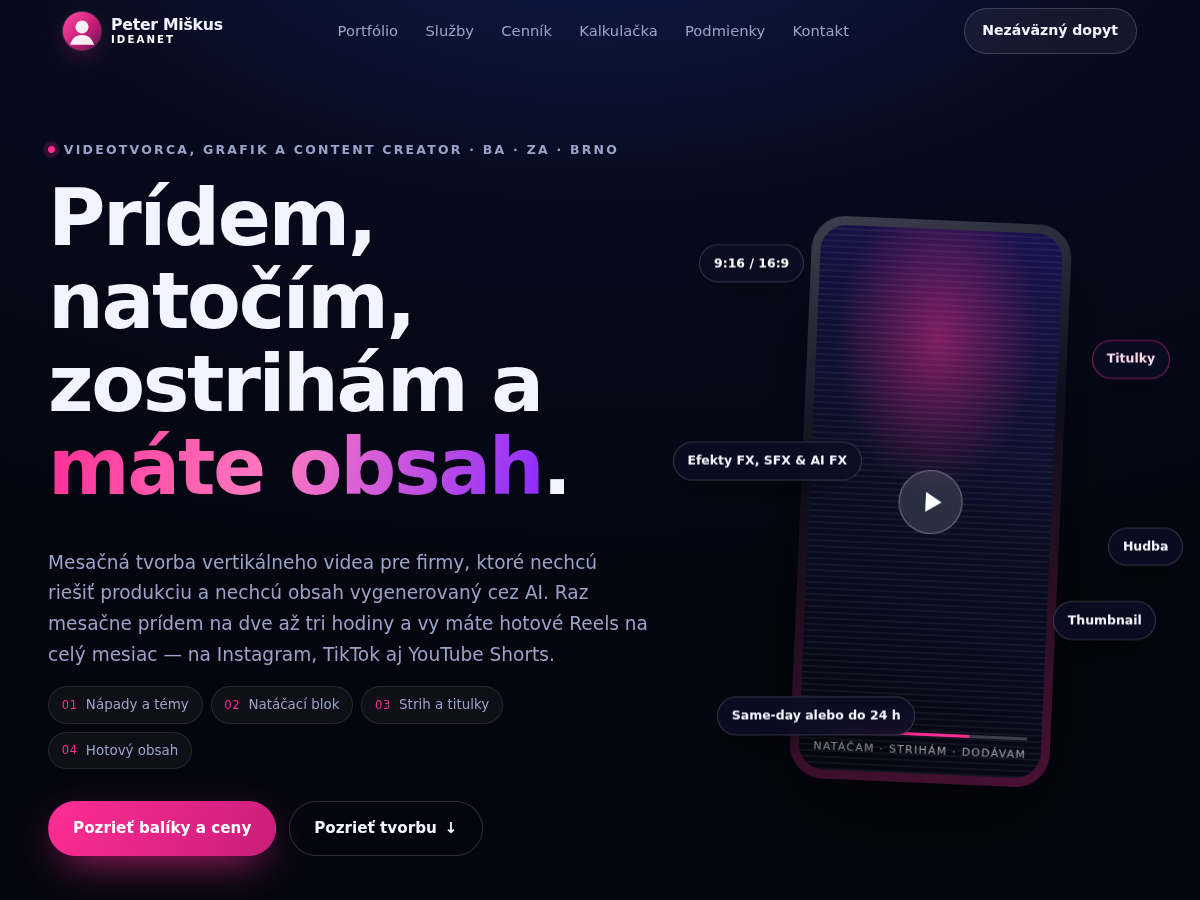
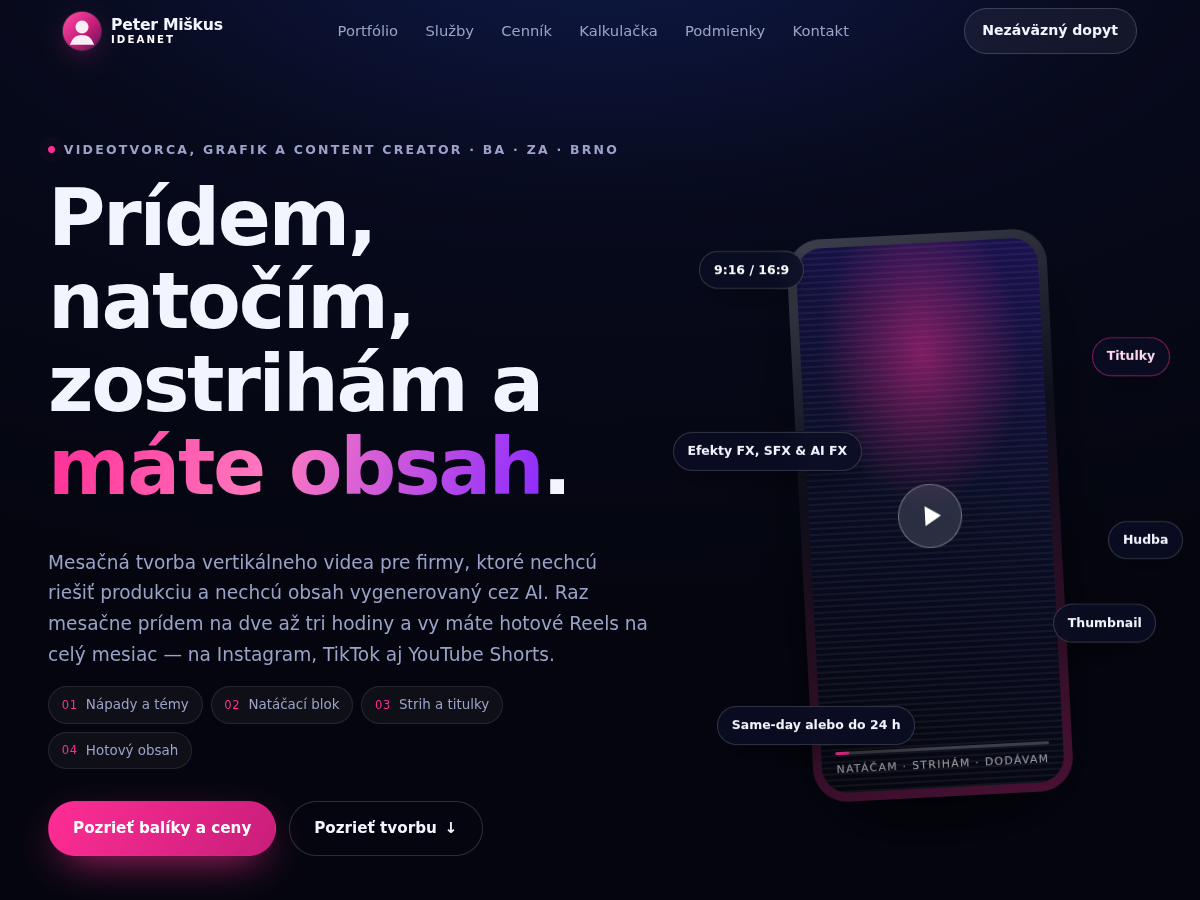
Video v úvodnej obrazovke, čas z videa, ikona na rozbalenie
Úvodná obrazovka: do telefónu sa dá v Prispôsobiť nahrať vertikálna
slučka (MP4, voliteľne WebM, prvý obrázok). Prehráva sa sama a stlmene,
je to ozdoba. Komu má systém vypnuté animácie, tomu sa nespustí a uvidí
prvý obrázok. Bez nahratého videa zostane pôvodná animovaná obrazovka,
takže čerstvá inštalácia vyzerá rovnako ako doteraz.

Dĺžka na kartách portfólia sa už nevypisuje ručne — prehliadač ju
prečíta z videa, len čo načíta jeho popis (preload="metadata"). Ručne
vyplnená hodnota platí dovtedy, prípadne keď sa video nenačíta; keď nie
je ani jedna, bublina s časom sa nezobrazí. load() pri prvom prehratí
sa volá už len vtedy, keď ešte nie je zdroj — inak by zahodil práve
načítanú dĺžku.

Rozbalenie videa je samá ikona pri pravom okraji karty, bez textu vedľa
nej; popis nesie aria-label a title. Poznámka nad portfóliom už
neodkazuje na tlačidlo menom, ktoré na ňom nie je vidieť.

Odstup medzi sekciami je menší: --sec-y z clamp(4.5rem, 10vw, 9rem)
na clamp(3.4rem, 7.4vw, 6.8rem).

Overené: 336 kontrol vo WordPresse, 261 na statickej verzii, bez pádu.

Claude-Session: https://claude.ai/code/session_01Fz61n7YU6jQe9FiW2EftMQ

diff --git a/wp-theme/ideanet/assets/js/app.js b/wp-theme/ideanet/assets/js/app.js
@@ -51,7 +51,7 @@
     <article class="reel" id="${r.id}" data-i="${i}" role="option" aria-selected="false" aria-label="${esc(r.title)}">
       <div class="reel__media">
         ${r.poster ? `<img src="${esc(r.poster)}" alt="${esc(r.title)}" loading="lazy" decoding="async" width="1080" height="1920">` : ''}
-        <video preload="none" playsinline muted loop ${r.poster ? `poster="${esc(r.poster)}"` : ''} aria-label="${esc(r.title)}">
+        <video preload="${(r.video || r.webm) ? 'metadata' : 'none'}" playsinline muted loop ${r.poster ? `poster="${esc(r.poster)}"` : ''} aria-label="${esc(r.title)}">
           ${r.video ? `<source src="${esc(r.video)}" type="video/mp4">` : ''}
           ${r.webm  ? `<source src="${esc(r.webm)}" type="video/webm">` : ''}
         </video>
@@ -72,7 +72,7 @@
         <span class="tags">${(r.tags || []).map(x => `<span>${esc(x)}</span>`).join('')}</span>
         <div class="reel__tools">
           <button class="tool" data-act="sound" aria-label="${esc(T.soundOn)}">${icon.mute}<span>${esc(T.sound)}</span></button>
-          <button class="tool" data-act="expand" aria-label="${esc(T.expand + ' ' + r.title)}">${icon.exp}<span>${esc(T.expand)}</span></button>
+          <button class="tool tool--expand" data-act="expand" title="${esc(T.expand)}" aria-label="${esc(T.expand + ' ' + r.title)}">${icon.exp}</button>
         </div>
       </div>
       <span class="reel__line"></span>
@@ -81,8 +81,21 @@
     cards  = $$('.reel', rail);
     videos = $$('.reel video', rail);
 
+    /* Dĺžka na karte sa berie z videa, nie z ručne vyplneného poľa —
+       prehliadač ju pozná hneď, ako načíta popis súboru. Vyplnená
+       hodnota slúži len dovtedy, prípadne keď video chýba. */
+    const cas = (sek) => {
+      const m = Math.floor(sek / 60), z = Math.round(sek % 60);
+      return z === 60 ? (m + 1) + ':00' : m + ':' + String(z).padStart(2, '0');
+    };
+
     /* plagát ako záloha, keď video chýba alebo sa nedá prehrať */
     videos.forEach((v, i) => {
+      v.addEventListener('loadedmetadata', () => {
+        if (!isFinite(v.duration) || v.duration <= 0) return;
+        const el = cards[i].querySelector('.reel__dur');
+        if (el) el.textContent = cas(v.duration);
+      });
       v.addEventListener('error', () => {
         if (v.networkState === HTMLMediaElement.NETWORK_NO_SOURCE) cards[i].classList.add('no-src');
       }, true);
@@ -113,7 +126,12 @@
 
   function play(i) {
     const v = videos[i], card = cards[i];
-    if (v.preload === 'none') { v.preload = 'auto'; v.load(); }
+    if (v.preload !== 'auto') {
+      /* load() by zahodil už načítaný popis aj dĺžku — stačí povoliť
+         sťahovanie, zvyšok dotiahne samotné play() */
+      v.preload = 'auto';
+      if (!v.currentSrc) v.load();
+    }
     stopAll(v);
     v.play().then(() => card.classList.add('is-playing'))
             .catch(() => { if (!v.currentSrc) card.classList.add('no-src'); });
@@ -456,6 +474,27 @@
     if (e.key === 'ArrowRight') step(1);
     if (e.key === 'ArrowLeft') step(-1);
   });
+
+  /* ── video v telefóne na úvodnej obrazovke ──
+     Je to ozdoba, takže sa prehráva samo a bez zvuku. Kto má vypnuté
+     animácie, uvidí prvý obrázok — hýbuce sa video by bolo presne to,
+     čomu sa tým nastavením chce vyhnúť. */
+  const heroVideo = $('#heroVideo');
+  if (heroVideo) {
+    if (reduce) {
+      heroVideo.autoplay = false;
+      heroVideo.removeAttribute('autoplay');
+      heroVideo.pause();
+    } else {
+      /* Safari autoplay niekedy odmietne, keď je karta na pozadí —
+         skúsime to znova, až keď je video na obrazovke. */
+      const spusti = () => { const p = heroVideo.play(); if (p) p.catch(() => {}); };
+      spusti();
+      new IntersectionObserver((ents) => {
+        ents.forEach(en => { if (en.isIntersecting && heroVideo.paused) spusti(); });
+      }, { threshold: .2 }).observe(heroVideo);
+    }
+  }
 
   /* ───────────────────────────────────────────
      6) NAVIGÁCIA + MENU

diff --git a/wp-theme/ideanet/style.css b/wp-theme/ideanet/style.css
@@ -53,7 +53,7 @@ Tags: one-column, custom-menu, custom-logo, custom-colors, editor-style, portfol
   --shell:min(1240px, 92vw);
   --card-w:clamp(220px, 26vw, 308px);
   --gutter:clamp(1rem, 4vw, 2.5rem);
-  --sec-y:clamp(4.5rem, 10vw, 9rem);
+  --sec-y:clamp(3.4rem, 7.4vw, 6.8rem);
 
   /* typografia */
   --font:'Inter', ui-sans-serif, system-ui, -apple-system, 'Segoe UI', Roboto, sans-serif;
@@ -459,6 +459,9 @@ section[id]{scroll-margin-top:clamp(72px,9vh,96px)}
   padding:.32rem .6rem;border-radius:999px;color:#fff;
 }
 .reel__dur{font-size:.72rem;font-weight:600;color:rgba(255,255,255,.72);background:rgba(4,6,18,.6);padding:.32rem .55rem;border-radius:999px;backdrop-filter:blur(8px)}
+/* Dĺžku dopĺňa skript z videa. Kým ju nepozná, nech tam nevisí prázdna
+   bublina. */
+.reel__dur:empty{display:none}
 
 .reel__play{
   position:absolute;inset:0;margin:auto;width:66px;height:66px;border-radius:50%;
@@ -485,6 +488,10 @@ section[id]{scroll-margin-top:clamp(72px,9vh,96px)}
 }
 .tool:hover{background:var(--magenta);border-color:transparent;color:#fff}
 .tool svg{width:15px;height:15px;flex:none}
+/* Rozbalenie je samá ikona a drží sa pravého okraja — popis nesie
+   aria-label, nie text vedľa nej. */
+.tool--expand{flex:none;margin-left:auto;width:36px;padding:.5rem 0}
+.tool--expand svg{width:16px;height:16px}
 .reel__line{position:absolute;left:0;bottom:0;height:3px;width:0;background:var(--magenta);z-index:3;transition:width .12s linear}
 
 .reel__hint{
@@ -1248,3 +1255,20 @@ body.is-locked{overflow:hidden}
   color:var(--text);padding:.7rem .85rem;font:inherit;margin-bottom:.9rem}
 .comment-respond .comment-form-cookies-consent{display:flex;gap:.5rem;align-items:flex-start}
 .comment-respond .comment-form-cookies-consent label{margin:0}
+
+/* ── video v telefóne na úvodnej obrazovke ──
+   Nahrádza animovanú obrazovku, keď je v Prispôsobiť nahraté video.
+   Prekrytie s odleskom a riadkami necháme, len slabšie — inak by
+   z videa nebolo nič vidieť. */
+.phone__video{
+  position:absolute;inset:0;width:100%;height:100%;
+  object-fit:cover;border-radius:inherit;z-index:0;
+}
+.phone--video .phone__screen::before{opacity:.4;z-index:1;pointer-events:none}
+.phone--video .phone__caption{text-shadow:0 1px 10px rgba(0,0,0,.8)}
+
+/* Kto má vypnuté animácie, dostane prvý obrázok videa. Zastavuje ho
+   skript, CSS na prehrávanie nedosiahne. */
+@media (prefers-reduced-motion:reduce){
+  .phone--video{animation:none}
+}

diff --git a/styles.css b/styles.css
@@ -30,7 +30,7 @@
   --shell:min(1240px, 92vw);
   --card-w:clamp(220px, 26vw, 308px);
   --gutter:clamp(1rem, 4vw, 2.5rem);
-  --sec-y:clamp(4.5rem, 10vw, 9rem);
+  --sec-y:clamp(3.4rem, 7.4vw, 6.8rem);
 
   /* typografia */
   --font:'Inter', ui-sans-serif, system-ui, -apple-system, 'Segoe UI', Roboto, sans-serif;
@@ -436,6 +436,9 @@ section[id]{scroll-margin-top:clamp(72px,9vh,96px)}
   padding:.32rem .6rem;border-radius:999px;color:#fff;
 }
 .reel__dur{font-size:.72rem;font-weight:600;color:rgba(255,255,255,.72);background:rgba(4,6,18,.6);padding:.32rem .55rem;border-radius:999px;backdrop-filter:blur(8px)}
+/* Dĺžku dopĺňa skript z videa. Kým ju nepozná, nech tam nevisí prázdna
+   bublina. */
+.reel__dur:empty{display:none}
 
 .reel__play{
   position:absolute;inset:0;margin:auto;width:66px;height:66px;border-radius:50%;
@@ -462,6 +465,10 @@ section[id]{scroll-margin-top:clamp(72px,9vh,96px)}
 }
 .tool:hover{background:var(--magenta);border-color:transparent;color:#fff}
 .tool svg{width:15px;height:15px;flex:none}
+/* Rozbalenie je samá ikona a drží sa pravého okraja — popis nesie
+   aria-label, nie text vedľa nej. */
+.tool--expand{flex:none;margin-left:auto;width:36px;padding:.5rem 0}
+.tool--expand svg{width:16px;height:16px}
 .reel__line{position:absolute;left:0;bottom:0;height:3px;width:0;background:var(--magenta);z-index:3;transition:width .12s linear}
 
 .reel__hint{

diff --git a/wp-theme/theme-extra.css b/wp-theme/theme-extra.css
@@ -75,3 +75,20 @@
   color:var(--text);padding:.7rem .85rem;font:inherit;margin-bottom:.9rem}
 .comment-respond .comment-form-cookies-consent{display:flex;gap:.5rem;align-items:flex-start}
 .comment-respond .comment-form-cookies-consent label{margin:0}
+
+/* ── video v telefóne na úvodnej obrazovke ──
+   Nahrádza animovanú obrazovku, keď je v Prispôsobiť nahraté video.
+   Prekrytie s odleskom a riadkami necháme, len slabšie — inak by
+   z videa nebolo nič vidieť. */
+.phone__video{
+  position:absolute;inset:0;width:100%;height:100%;
+  object-fit:cover;border-radius:inherit;z-index:0;
+}
+.phone--video .phone__screen::before{opacity:.4;z-index:1;pointer-events:none}
+.phone--video .phone__caption{text-shadow:0 1px 10px rgba(0,0,0,.8)}
+
+/* Kto má vypnuté animácie, dostane prvý obrázok videa. Zastavuje ho
+   skript, CSS na prehrávanie nedosiahne. */
+@media (prefers-reduced-motion:reduce){
+  .phone--video{animation:none}
+}

diff --git a/app.js b/app.js
@@ -62,7 +62,7 @@
         <span class="tags">${r.tags.map(t => `<span>${t}</span>`).join('')}</span>
         <div class="reel__tools">
           <button class="tool" data-act="sound" aria-label="Zapnúť zvuk">${icon.mute}<span>Zvuk</span></button>
-          <button class="tool" data-act="expand" aria-label="Rozbaliť ${r.title}">${icon.exp}<span>Rozbaliť</span></button>
+          <button class="tool tool--expand" data-act="expand" title="Rozbaliť" aria-label="Rozbaliť ${r.title}">${icon.exp}</button>
         </div>
       </div>
       <span class="reel__line"></span>

diff --git a/index.html b/index.html
@@ -156,7 +156,7 @@
         </div>
         <p class="section__note">
           Potiahnite prstom alebo myšou, skrolujte kolieskom, alebo použite šípky.
-          Klik na kartu spustí ukážku, tlačidlo <b>Rozbaliť</b> otvorí video na celú výšku.
+          Klik na kartu spustí ukážku, ikona vpravo dole otvorí video na celú výšku.
         </p>
       </div>
     </div>

diff --git a/wp-theme/ideanet/inc/demo.php b/wp-theme/ideanet/inc/demo.php
@@ -24,16 +24,17 @@ function ideanet_seed() {
 
 	$assets = get_theme_file_uri( 'assets/media' );
 
-	/* ── portfólio ─────────────────────────── */
+	/* ── portfólio ───────────────────────────
+	   Dĺžka sa tu nevypĺňa zámerne: prehliadač si ju prečíta z videa. */
 	$reels = array(
-		array( 'Ranná káva', 'Gastro', '0:18', 'Brand film pre mestskú kaviareň — jeden natáčací deň, šesť reels.', "Brand film\nGrading\nZvuk" ),
-		array( 'Séria pre klub', 'Fitness', '0:22', 'Dvanásť tréningových reels natočených počas jedného popoludnia.', "Séria\nTitulky\nSlow-mo" ),
-		array( 'Detail chuti', 'Produkt', '0:15', 'Makro produktové zábery pre e-shop s pralinkami.', "Makro\nProdukt\nSvetlo" ),
-		array( 'Prehliadka bytu', 'Reality', '0:29', 'Plynulá gimbal prehliadka novostavby pre realitnú kanceláriu.', "Gimbal\nTour\nHudba" ),
-		array( 'Aftermovie', 'Event', '0:34', 'Zostrih z firemnej konferencie dodaný do 24 hodín.', "Event\nRýchle dodanie" ),
-		array( 'Lookbook jeseň', 'Fashion', '0:20', 'Vertikálny lookbook pre lokálnu módnu značku.', "Fashion\nGrading\nMotion" ),
-		array( 'Pred a po', 'Beauty', '0:24', 'Premenový formát pre kadernícky salón, kompletne na kľúč.', "Transformácia\nTitulky" ),
-		array( 'Ako to funguje', 'Startup', '0:31', 'Vysvetľovacie video k aplikácii — scenár, natáčanie, motion.', "Explainer\nMotion\nScenár" ),
+		array( 'Ranná káva', 'Gastro', 'Brand film pre mestskú kaviareň — jeden natáčací deň, šesť reels.', "Brand film\nGrading\nZvuk" ),
+		array( 'Séria pre klub', 'Fitness', 'Dvanásť tréningových reels natočených počas jedného popoludnia.', "Séria\nTitulky\nSlow-mo" ),
+		array( 'Detail chuti', 'Produkt', 'Makro produktové zábery pre e-shop s pralinkami.', "Makro\nProdukt\nSvetlo" ),
+		array( 'Prehliadka bytu', 'Reality', 'Plynulá gimbal prehliadka novostavby pre realitnú kanceláriu.', "Gimbal\nTour\nHudba" ),
+		array( 'Aftermovie', 'Event', 'Zostrih z firemnej konferencie dodaný do 24 hodín.', "Event\nRýchle dodanie" ),
+		array( 'Lookbook jeseň', 'Fashion', 'Vertikálny lookbook pre lokálnu módnu značku.', "Fashion\nGrading\nMotion" ),
+		array( 'Pred a po', 'Beauty', 'Premenový formát pre kadernícky salón, kompletne na kľúč.', "Transformácia\nTitulky" ),
+		array( 'Ako to funguje', 'Startup', 'Vysvetľovacie video k aplikácii — scenár, natáčanie, motion.', "Explainer\nMotion\nScenár" ),
 	);
 
 	foreach ( $reels as $i => $r ) {
@@ -45,12 +46,11 @@ function ideanet_seed() {
 			array(
 				'poster' => $assets . '/posters/reel-' . $n . '.svg',
 				'cat'    => $r[1],
-				'dur'    => $r[2],
 				'webm'   => $assets . '/videos/reel-' . $n . '.webm',
-				'tags'   => $r[4],
+				'tags'   => $r[3],
 			),
 			$i,
-			$r[3]
+			$r[2]
 		);
 	}
 

diff --git a/wp-theme/ideanet/template-parts/hero.php b/wp-theme/ideanet/template-parts/hero.php
@@ -8,6 +8,10 @@
 defined( 'ABSPATH' ) || exit;
 
 $chips   = array_slice( ideanet_lines( 'hero_chips' ), 0, 6 );
+$video   = ideanet_opt( 'hero_video' );
+$webm    = ideanet_opt( 'hero_webm' );
+$poster  = ideanet_opt( 'hero_poster' );
+$ma_video = ( $video || $webm );
 $marquee = array_filter( array_map( 'trim', explode( ',', ideanet_opt( 'hero_marquee' ) ) ) );
 ?>
 <section class="hero">
@@ -36,11 +40,26 @@ $marquee = array_filter( array_map( 'trim', explode( ',', ideanet_opt( 'hero_mar
 		</div>
 
 		<div class="hero__visual reveal" aria-hidden="true">
-			<div class="phone">
+			<div class="phone<?php echo $ma_video ? ' phone--video' : ''; ?>">
 				<div class="phone__screen">
-					<span class="phone__bar"></span>
-					<span class="phone__play"></span>
-					<span class="phone__caption"><?php echo esc_html( ideanet_opt( 'hero_caption' ) ); ?></span>
+					<?php if ( $ma_video ) : ?>
+						<?php /* Ozdoba, nie obsah — preto bez zvuku, bez ovládania a v slučke. */ ?>
+						<video class="phone__video" id="heroVideo" autoplay muted loop playsinline preload="metadata"
+							<?php echo $poster ? 'poster="' . esc_url( $poster ) . '"' : ''; ?>>
+							<?php if ( $video ) : ?>
+								<source src="<?php echo esc_url( $video ); ?>" type="video/mp4">
+							<?php endif; ?>
+							<?php if ( $webm ) : ?>
+								<source src="<?php echo esc_url( $webm ); ?>" type="video/webm">
+							<?php endif; ?>
+						</video>
+					<?php else : ?>
+						<span class="phone__bar"></span>
+						<span class="phone__play"></span>
+					<?php endif; ?>
+					<?php if ( ideanet_opt( 'hero_caption' ) ) : ?>
+						<span class="phone__caption"><?php echo esc_html( ideanet_opt( 'hero_caption' ) ); ?></span>
+					<?php endif; ?>
 				</div>
 			</div>
 			<?php foreach ( $chips as $i => $chip ) : ?>

diff --git a/wp-theme/ideanet/inc/customizer.php b/wp-theme/ideanet/inc/customizer.php
@@ -51,6 +51,9 @@ function ideanet_customizer_map() {
 				'hero_cta2_url' => array( __( 'Druhé tlačidlo — odkaz', 'ideanet' ), 'text' ),
 				'hero_chips'    => array( __( 'Štítky okolo telefónu', 'ideanet' ), 'area', $lines . ' ' . __( 'Najviac šesť.', 'ideanet' ) ),
 				'hero_caption'  => array( __( 'Text na obrazovke telefónu', 'ideanet' ), 'text' ),
+				'hero_video'    => array( __( 'Video v telefóne (MP4)', 'ideanet' ), 'video', __( 'Vertikál 9:16, krátka slučka bez zvuku. Prázdne = zostane dnešná animovaná obrazovka.', 'ideanet' ) ),
+				'hero_webm'     => array( __( 'Video v telefóne (WebM) — nepovinné', 'ideanet' ), 'video', __( 'Druhý formát pre staršie prehliadače.', 'ideanet' ) ),
+				'hero_poster'   => array( __( 'Prvý obrázok videa', 'ideanet' ), 'image', __( 'Zobrazí sa, kým sa video načíta, a tiež ľuďom, ktorí majú vypnuté animácie.', 'ideanet' ) ),
 				'hero_marquee'  => array( __( 'Bežiaci pás odborov', 'ideanet' ), 'text', __( 'Oddeľte čiarkami.', 'ideanet' ) ),
 			),
 		),
@@ -353,6 +356,14 @@ function ideanet_customize_register( $wp_customize ) {
 				continue;
 			}
 
+			if ( 'video' === $type ) {
+				$args['mime_type'] = 'video';
+				$wp_customize->add_control(
+					new WP_Customize_Upload_Control( $wp_customize, $id, $args )
+				);
+				continue;
+			}
+
 			$map = array(
 				'area'   => 'textarea',
 				'url'    => 'url',
@@ -403,6 +414,7 @@ function ideanet_sanitizer( $type ) {
 		case 'check':
 			return 'ideanet_sanitize_check';
 		case 'image':
+		case 'video':
 			return 'esc_url_raw';
 		case 'area':
 			return 'ideanet_sanitize_area';

diff --git a/wp-theme/ideanet/inc/defaults.php b/wp-theme/ideanet/inc/defaults.php
@@ -42,12 +42,15 @@ function ideanet_defaults() {
 		'hero_cta2_url'   => '#portfolio',
 		'hero_chips'      => "9:16 / 16:9\nTitulky\nSame-day alebo do 24 h\nHudba\nEfekty FX, SFX & AI FX\nThumbnail",
 		'hero_caption'    => 'natáčam · strihám · dodávam',
+		'hero_video'      => '',
+		'hero_webm'       => '',
+		'hero_poster'     => '',
 		'hero_marquee'    => 'Gastro, Fitness, Reality, Beauty, Kliniky, Hotely, Developeri, Eventy, E-shopy',
 
 		/* ── hlavičky sekcií ───────────────────── */
 		'portfolio_eyebrow' => 'Portfólio',
 		'portfolio_title'   => 'Tvorba na výšku',
-		'portfolio_note'    => 'Potiahnite prstom alebo myšou, skrolujte kolieskom, alebo použite šípky. Klik na kartu spustí ukážku, tlačidlo <b>Rozbaliť</b> otvorí video na celú výšku.',
+		'portfolio_note'    => 'Potiahnite prstom alebo myšou, skrolujte kolieskom, alebo použite šípky. Klik na kartu spustí ukážku, ikona vpravo dole otvorí video na celú výšku.',
 
 		'vizualy_eyebrow' => 'Vizuály a identita',
 		'vizualy_title'   => 'Nielen video',

diff --git a/wp-theme/ideanet/inc/content-types.php b/wp-theme/ideanet/inc/content-types.php
@@ -27,7 +27,7 @@ function ideanet_post_types() {
 			'fields'   => array(
 				'poster' => array( 'Plagát — náhradný obrázok', 'media', 'Použije sa len vtedy, keď položka nemá náhľadový obrázok.', 'image' ),
 				'cat'   => array( 'Kategória', 'text', 'Štítok vľavo hore na karte — napríklad Gastro.' ),
-				'dur'   => array( 'Dĺžka', 'text', 'Napríklad 0:18.' ),
+				'dur'   => array( 'Dĺžka', 'text', 'Nechajte prázdne — dĺžka sa prečíta z videa. Vyplňte len vtedy, keď chcete ukázať niečo iné, alebo keď video ešte nemáte.' ),
 				'video' => array( 'Video (MP4)', 'media', 'Nahrajte alebo vyberte súbor z knižnice médií. Vertikál 9:16.', 'video' ),
 				'webm'  => array( 'Video (WebM) — nepovinné', 'media', 'Druhý formát pre staršie prehliadače.', 'video' ),
 				'tags'  => array( 'Štítky', 'textarea', 'Jeden na riadok. Zobrazia sa pod popisom.' ),

diff --git a/wp-theme/README.md b/wp-theme/README.md
@@ -41,6 +41,18 @@ V administrácii je vľavo položka **IDEANET** a v nej rozcestník.
 | Dopyty, ktoré prišli z formulára | **Prijaté dopyty** |
 | Fotku vedľa mena | Prispôsobiť → IDEANET → Značka a hlavička |
 
+### Video v úvodnej obrazovke
+
+Prispôsobiť → IDEANET → **Úvodná obrazovka**. Dole sú tri polia:
+*Video v telefóne (MP4)*, nepovinný *WebM* a *Prvý obrázok videa*.
+
+Nahrajte krátku vertikálnu slučku (9:16, pár sekúnd, bez zvuku —
+prehráva sa automaticky a stlmene). Kým je pole prázdne, v telefóne
+zostane dnešná animovaná obrazovka, takže sa nič nepokazí.
+
+Komu má systém vypnuté animácie, tomu sa video nespustí a uvidí prvý
+obrázok. Preto sa oplatí ho vyplniť.
+
 ### Pridanie videa
 
 **Reels → Pridať nový.** Nadpis je názov na karte, **Výpis** (vpravo dole,
@@ -51,6 +63,10 @@ prípadne cez Nastavenia → Výpis) je popis pod ním.
 - **Video (MP4)** nahráte cez tlačidlo *Vybrať z knižnice*. Ak je súbor
   veľký, nahrajte ho radšej inam a sem vložte priamu adresu.
 - *Video (WebM)* je nepovinné — je to druhý formát pre staršie prehliadače.
+- **Dĺžku nevypĺňajte** — prečíta sa sama z videa, hneď ako prehliadač
+  načíta jeho popis. Pole slúži len vtedy, keď video ešte nemáte alebo
+  chcete ukázať iný čas. Kým nie je ani jedno, bublina s časom sa
+  nezobrazí vôbec.
 - **Poradie** kariet riadi pole *Poradie* v boxe Vlastnosti stránky.
 
 Keď video nevyplníte, karta zostane na plagáte a nespadne.
